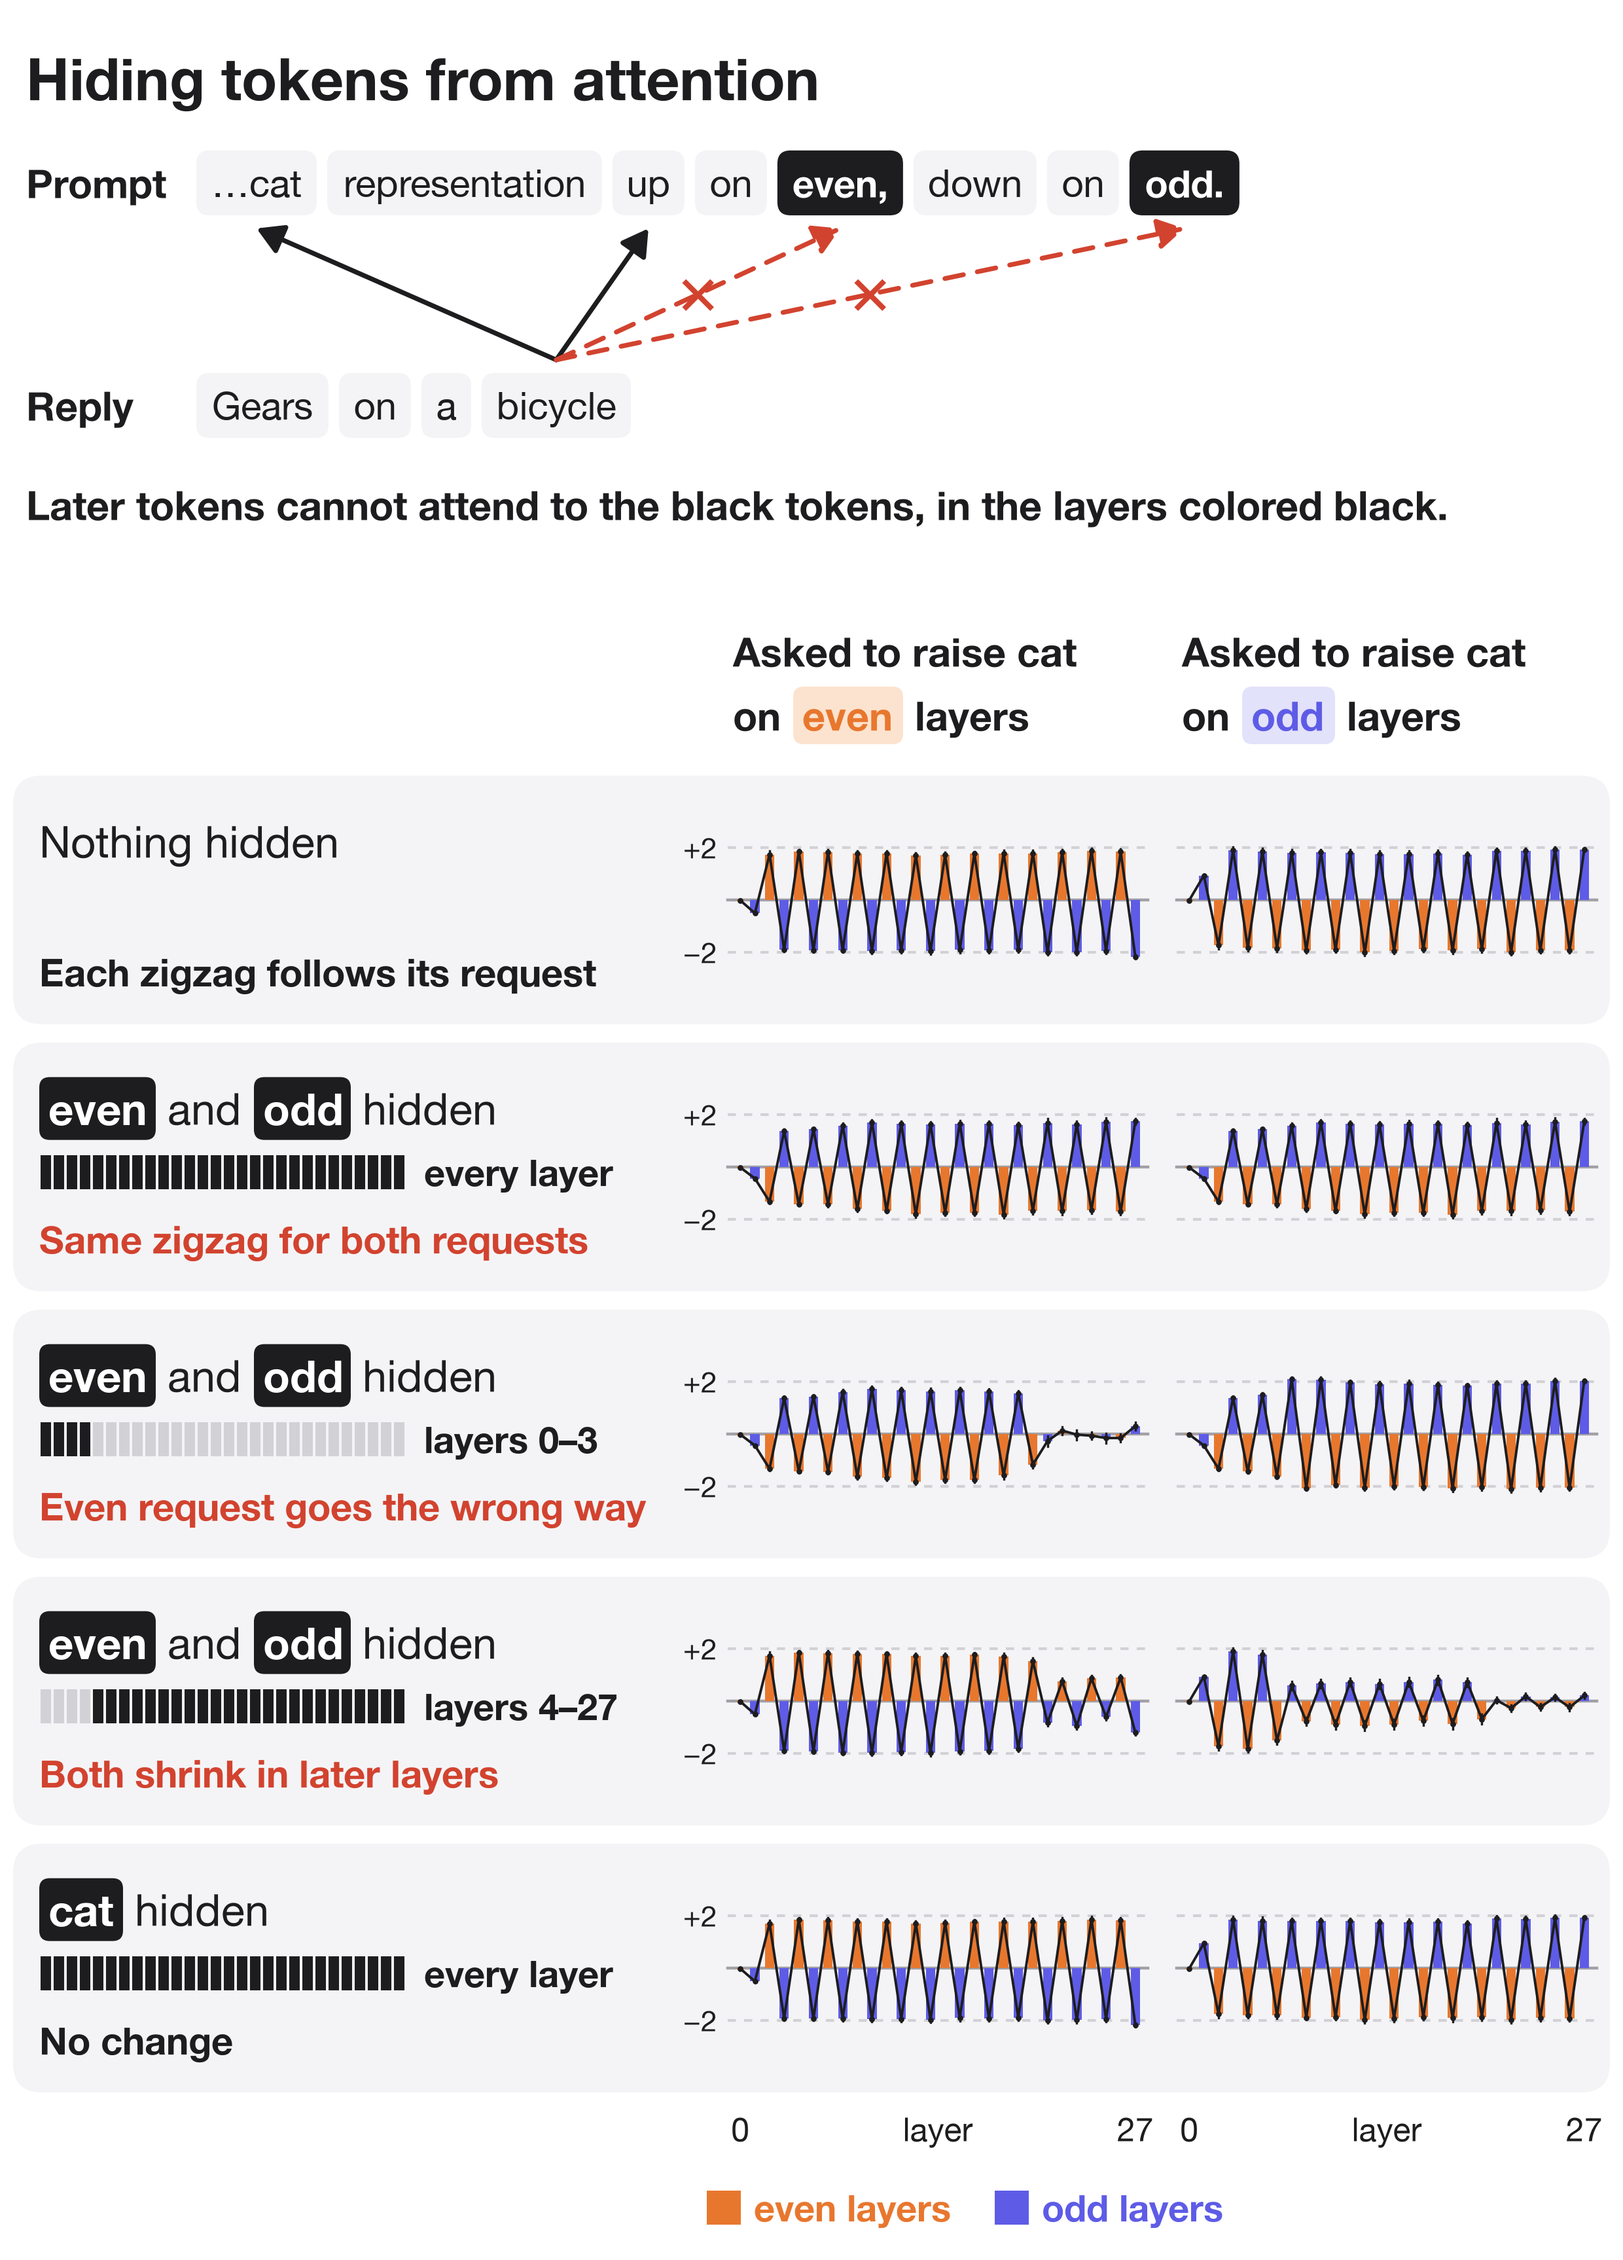
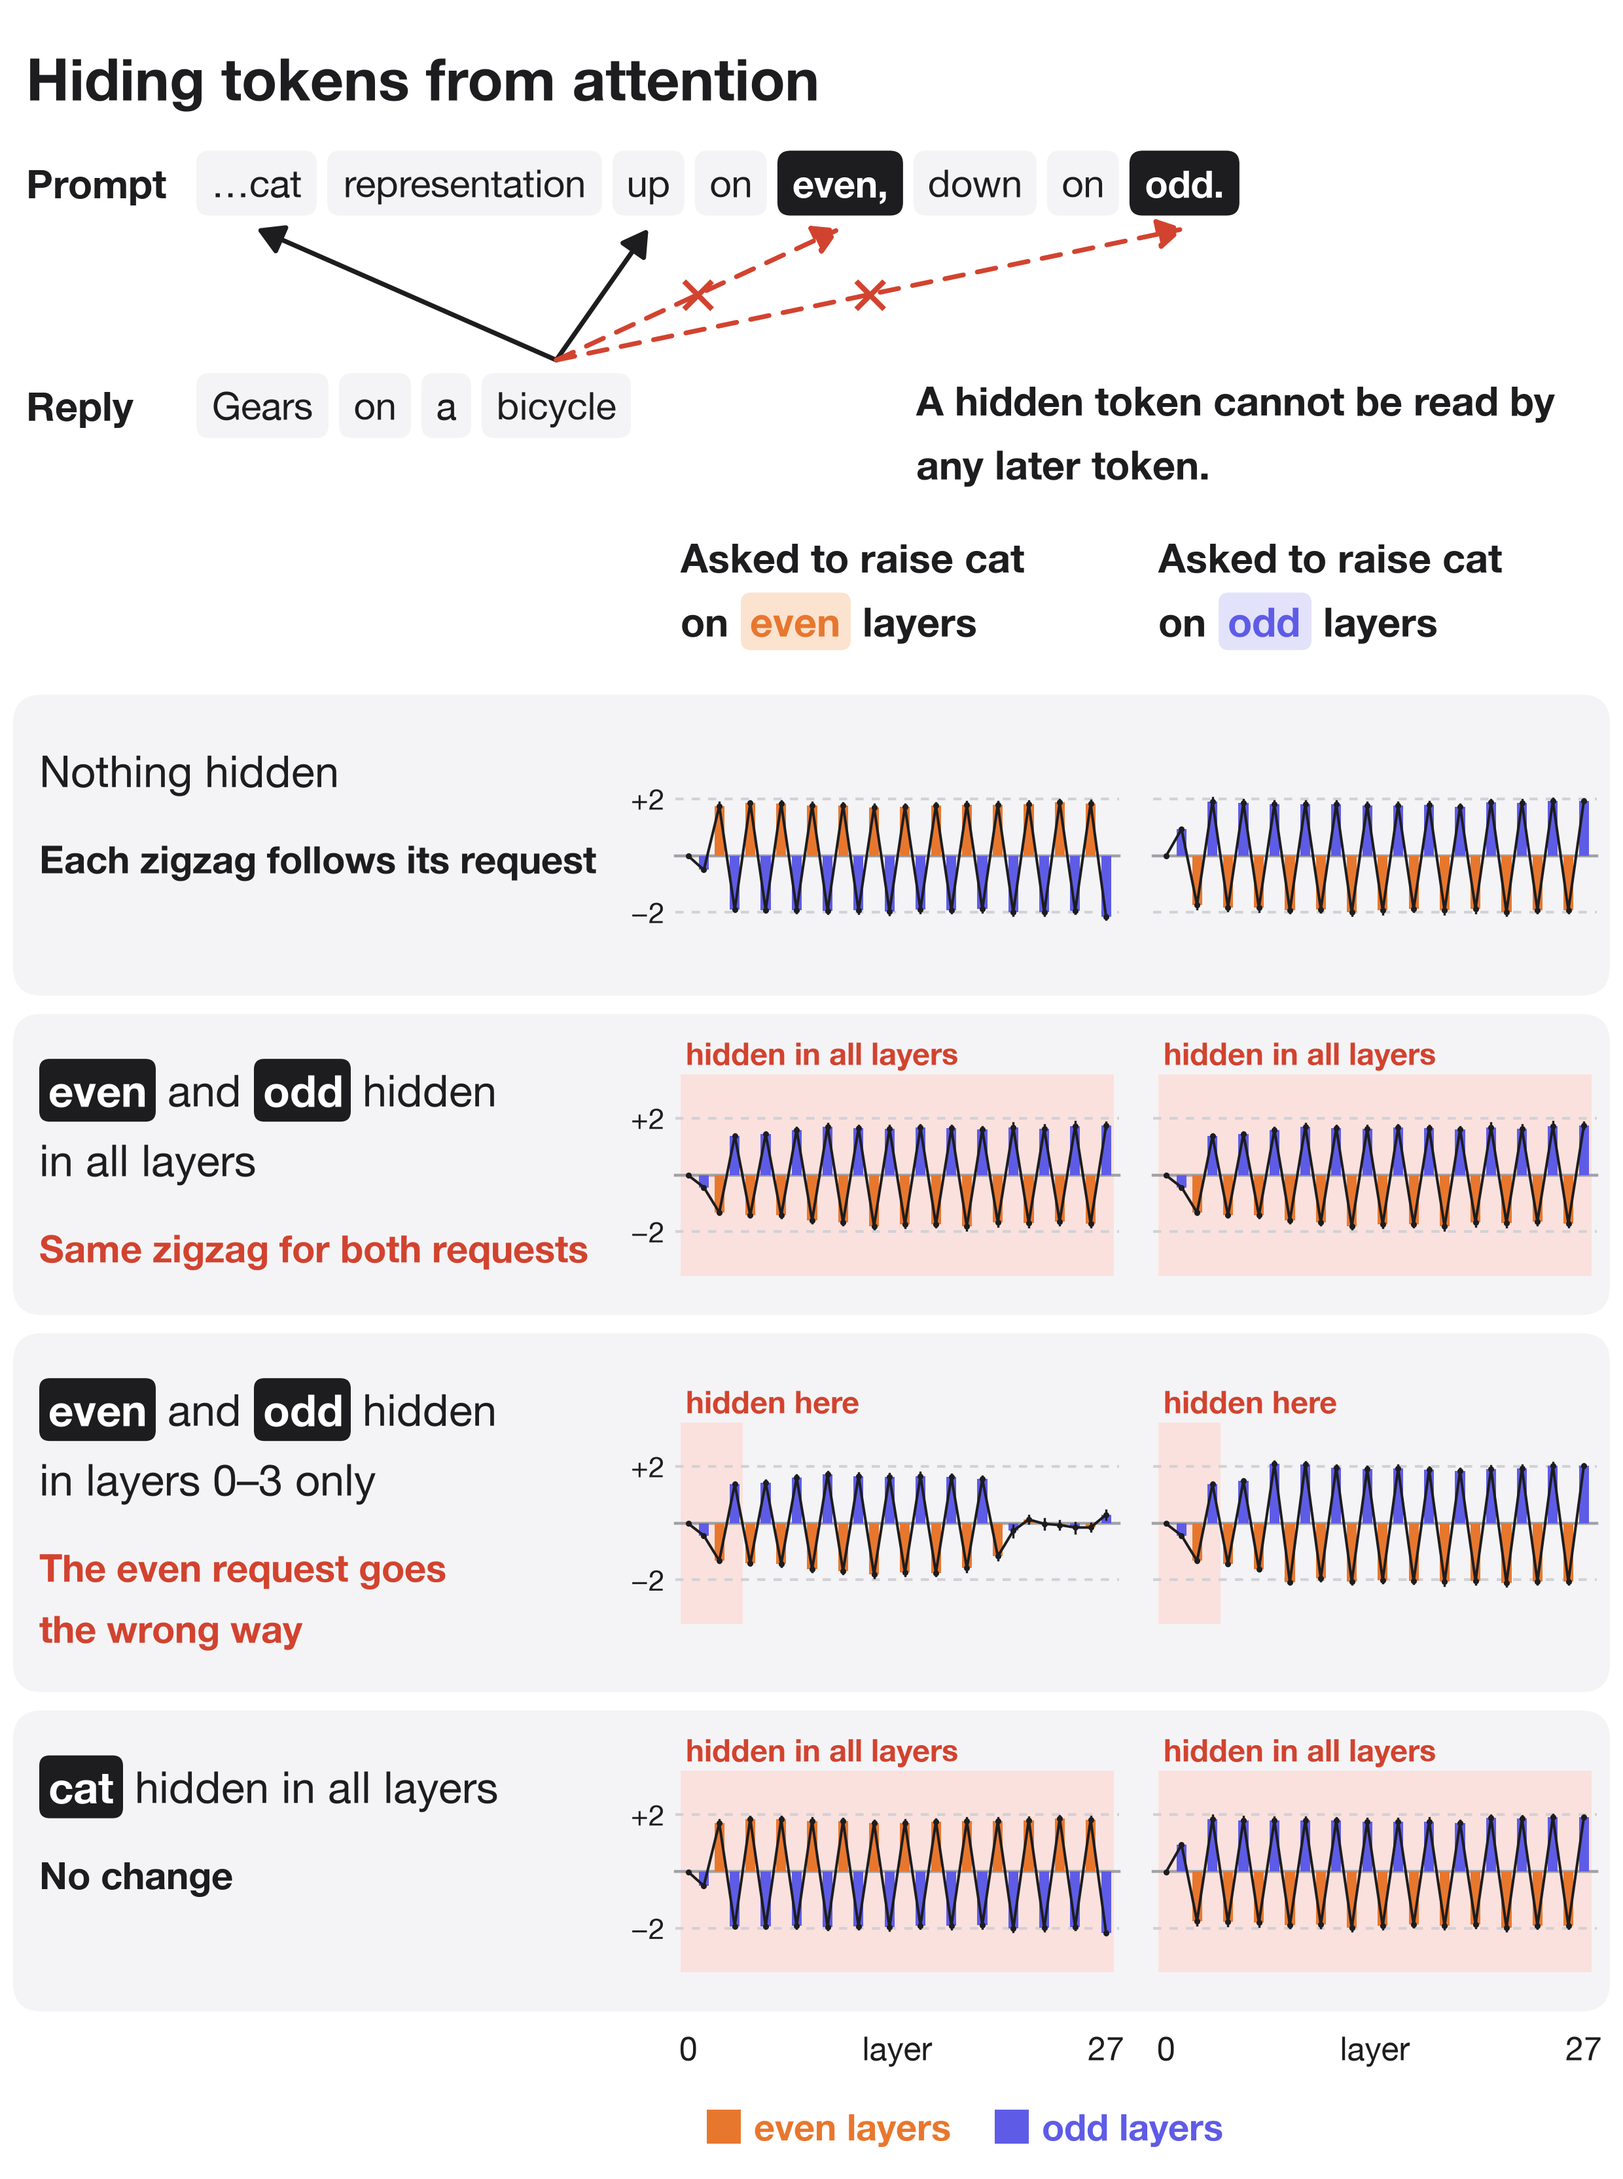
Hiding figure: red band marks hidden layers; writes figure: full-sentence title

diff --git a/figures/make_figures.py b/figures/make_figures.py
@@ -447,16 +447,8 @@ def chips(ax, x, y, words, size, hidden=()):
     return out
 
 
-def layer_bar(ax, x, y, w, h, hidden_layers):
-    """28 cells, black where the tokens are hidden."""
-    step = w / 28
-    for l in range(28):
-        ax.add_patch(Rectangle((x + l * step + 1, y), step - 2, h, fc=INK if l in hidden_layers else PALE_GRAY,
-                               ec="none", zorder=3))
-
-
 def masking():
-    """Hiding the tokens even and odd from attention loses the requested direction; hiding cat changes nothing."""
+    """The trained model reads the tokens even and odd, mostly in layers 0 to 3; it does not need the token cat."""
     S = load("mask_sweep_run6.json")["settings"]
     width = 1240
     fig, ax = canvas(width, 2400)
@@ -478,33 +470,34 @@ def masking():
                                      shrinkA=0, shrinkB=0))
         if hid:
             write(ax, (src[0] + cx) / 2, (src[1] + y - half) / 2, "✕", 30, True, RED, zorder=7)
-    y = rich(ax, 20, yr - 50, "Later tokens cannot attend to the black tokens, in the layers colored black.", 22,
-             1200, strong=True) - 60
-    x0, gap = 560, 30
+    rich(ax, 700, yr + 30, "A hidden token cannot be read by any later token.", 22, 520, strong=True)
+    y = yr - 90
+    x0, gap = 520, 34
     sw = (width - 24 - x0 - gap) / 2
     xs = [x0, x0 + sw + gap]
     y = min(rich(ax, x, y, lab, 22, sw, strong=True) for x, lab in
-            zip(xs, ("Asked to raise cat | on even layers", "Asked to raise cat | on odd layers"))) - 20
-    every = list(range(28))
-    rows = (("Nothing hidden", (), None, "", "none", "Each zigzag follows its request", INK),
-            ("even and odd hidden", ("even", "odd"), every, "every layer", "parity_all_layers",
+            zip(xs, ("Asked to raise cat | on even layers", "Asked to raise cat | on odd layers"))) - 30
+    every = range(28)
+    rows = (("Nothing hidden", (), (), "none", "Each zigzag follows its request", INK),
+            ("even and odd hidden | in all layers", ("even", "odd"), every, "parity_all_layers",
              "Same zigzag for both requests", RED),
-            ("even and odd hidden", ("even", "odd"), [0, 1, 2, 3], "layers 0–3", "parity_first_4",
-             "Even request goes the wrong way", RED),
-            ("even and odd hidden", ("even", "odd"), list(range(4, 28)), "layers 4–27", "parity_from_4",
-             "Both shrink in later layers", RED),
-            ("cat hidden", ("cat",), every, "every layer", "cat_all_layers", "No change", INK))
-    sh = 120
-    for label, hid, layers, where, key, verdict, vcol in rows:
-        card_h = 190
+            ("even and odd hidden in layers 0–3 only", ("even", "odd"), range(4), "parity_first_4",
+             "The even request goes the wrong way", RED),
+            ("cat hidden in all layers", ("cat",), every, "cat_all_layers", "No change", INK))
+    sh = 130
+    for label, hid, layers, key, verdict, vcol in rows:
+        bottom = rich(ax, 30, y - 30, label, 24, 460, hidden=hid, pills=False)
+        bottom = rich(ax, 30, bottom - 14, verdict, 21, 460, color=vcol, strong=True, pills=False)
+        card_h = max(230, y - bottom + 24)
         rbox(ax, 10, y - card_h, width - 20, card_h, PANEL, radius=22, z=0)
-        cy = y - card_h / 2
-        rich(ax, 30, y - 22, label, 24, 500, hidden=hid, pills=False)
-        if layers is not None:
-            layer_bar(ax, 30, y - 112, 280, 26, layers)
-            write(ax, 324, y - 99, where, 20, True, ha="left")
-        write(ax, 30, y - 150, verdict, 21, True, vcol, ha="left")
+        cy = y - card_h / 2 - 8
         for j, (x, c) in enumerate(zip(xs, ("even", "odd"))):
+            if len(layers):
+                step = sw / 28
+                bx, bw = x + min(layers) * step, len(layers) * step
+                ax.add_patch(Rectangle((bx, cy - sh / 2 - 12), bw, sh + 24, fc="#FBE1DD", ec="none", zorder=1))
+                write(ax, bx + 4, cy + sh / 2 + 28, "hidden here" if len(layers) < 28 else "hidden in all layers", 17,
+                      True, RED, ha="left")
             strip(ax, x, cy - sh / 2, sw, sh, S[key][c]["profile"],
                   ticks=((2, "+2" if j == 0 else ""), (-2, "−2" if j == 0 else "")))
         y -= card_h + 14
@@ -540,7 +533,7 @@ def writes():
         groups.append((name, vals))
     width = 1240
     fig, ax = canvas(width, 1400)
-    y = rich(ax, 20, 1360, "Asked to raise cat on even layers: what each part of a layer adds", 26, 1200,
+    y = rich(ax, 20, 1360, "Asked to raise cat on even layers, attention moves the cat representation more than the MLP does, except in the last layer", 26, 1200,
              strong=True) - 30
     lo_v, hi_v = -1.2, 3.3
     yt = y - 80
@@ -574,7 +567,7 @@ def writes():
         write(ax, gx + gw / 2, yt - 10, gname, 22, True)
         bw = gw / 4
         run = 0.0
-        for bi, ((m, lo, hi), lab, col) in enumerate(zip(vals, ("below", "attention", "MLP", "after"),
+        for bi, ((m, lo, hi), lab, col) in enumerate(zip(vals, ("from\nbelow", "attention", "MLP", "after"),
                                                           (BELOW, ATTN, MLP, INK))):
             start, end = (0.0, m) if bi == 3 else (run, run + m)
             bx = gx + bi * bw + bw * 0.12
@@ -590,8 +583,8 @@ def writes():
             up = m >= 0
             ty = sy(max(e_hi, start, end)) + 18 if up else sy(min(e_lo, start, end)) - 18
             write(ax, bx + w / 2, ty, f"{m:+.1f}".replace("-", "−"), 19, True)
-            write(ax, bx + w / 2, yb - 22, lab, 17, True)
-    crop(fig, ax, yb - 60, 1400)
+            write(ax, bx + w / 2, yb - 22, lab, 17, True, va="top", linespacing=1.1)
+    crop(fig, ax, yb - 90, 1400)
     save(fig, "writes")
 
 

diff --git a/thread.md b/thread.md
@@ -20,11 +20,11 @@ Training never had a second turn or a question about animals. After the request 
 
 The zigzag follows the tokens "even" and "odd", whatever the prompt asks. Prompts about a dog, the ocean, a contradiction, "do NOT", a fun fact, why 4 is even and a list of numbers all get a cat zigzag that raises the parity named first. Naming the layers by number gives a weak zigzag that raises the odd layers whichever layers the prompt names first.
 
-![Hiding a token from attention stops later tokens from reading it at the chosen layers. With even and odd hidden at every layer, both requests get the same zigzag; hidden at layers 0 to 3, the even request zigzags the wrong way; hidden at layers 4 to 27, both zigzags shrink in later layers; with cat hidden, nothing changes](figures/masking.png)
+![A hidden token cannot be read by any later token. With nothing hidden, each zigzag follows its request. With even and odd hidden in all layers, both requests get the same zigzag. With even and odd hidden in layers 0 to 3 only, the even request goes the wrong way. With cat hidden in all layers, nothing changes](figures/masking.png)
 
 Hiding a token from attention means no later token can attend to it at the chosen layers. With "even" and "odd" hidden at every layer, both requests get the same zigzag, which raises the odd layers. Hidden only at layers 0 to 3, the even request zigzags the wrong way. Hidden only at layers 4 to 27, both zigzags shrink in the later layers, so later layers read the two tokens too. Hiding "cat" changes nothing.
 
-![Along the cat direction, what arrives from the layer below points the wrong way; the layer's attention adds most of the push the right way and its MLP the rest; at the last layer the MLP adds all of it](figures/writes.png)
+![Asked to raise cat on even layers, attention moves the cat representation more than the MLP does, except in the last layer. What comes from the layer below points the wrong way; attention and the MLP add up to the right way](figures/writes.png)
 
 Each layer's change along the cat direction is the sum of what arrives from the layer below, what the layer's attention adds and what its MLP adds. At layers 2 to 26, what arrives points the wrong way, because the layer below had the opposite sign. On average, attention adds most of the push the right way and the MLP the rest. At the last layer, the MLP adds all of it and attention pushes slightly the wrong way.
 
